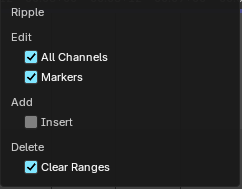
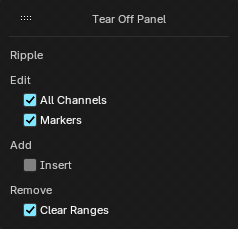
Sequencer: Ripple options, Delete section renamed to Remove #1727
Clear Ranges now also applies to ripple trim. Groups the options by
Edit, Add, Remove and refreshes the popover capture.

diff --git a/docs2/content/editors/video-sequence-editor/header/index.md b/docs2/content/editors/video-sequence-editor/header/index.md
@@ -237,12 +237,17 @@ Move the transformed strip to the nearest free space to resolve overlap.
 
 ![Ripple options](/docs2/images/editors/video-sequence-editor/header/tools-and-options/ripple-options.png)
 
-The drop-down next to the Overlap Mode buttons holds the **Ripple** settings:
+The drop-down next to the Overlap Mode buttons holds the **Ripple** settings. They are grouped by what you do to the strips:
 
-- **All Channels** ripples the strips on the other channels too. When it is off, only strips on the same channels as the edited strips move.
-- **Markers** moves the markers along with the strips.
-- **Insert** splits the strips at the leftmost edited handle and pushes the rest aside. When it is off, strips only move as far as needed to resolve the overlap.
-- **Clear Ranges** deletes the strip contents inside the removed ranges on the rippled channels, so the later strips close the whole gap. When it is off, the later strips only move as far as they can.
+- **Edit**
+  - **All Channels** ripples the strips on the other channels too. When it is off, only strips on the same channels as the edited strips move.
+  - **Markers** moves the markers along with the strips.
+- **Add**
+  - **Insert** splits the strips at the leftmost edited handle and pushes the rest aside. When it is off, strips only move as far as needed to resolve the overlap.
+- **Remove**
+  - **Clear Ranges** deletes the strip contents inside the removed ranges on the rippled channels, so the later strips close the whole gap. When it is off, the later strips only move as far as they can. It works for both **Ripple Delete** and the Ripple Trim Start and Ripple Trim End operators.
+
+> **Note:** The Remove section was called Delete before. It was renamed because Clear Ranges now also applies when you ripple trim, not only when you ripple delete.
 
 ### Snap
 
